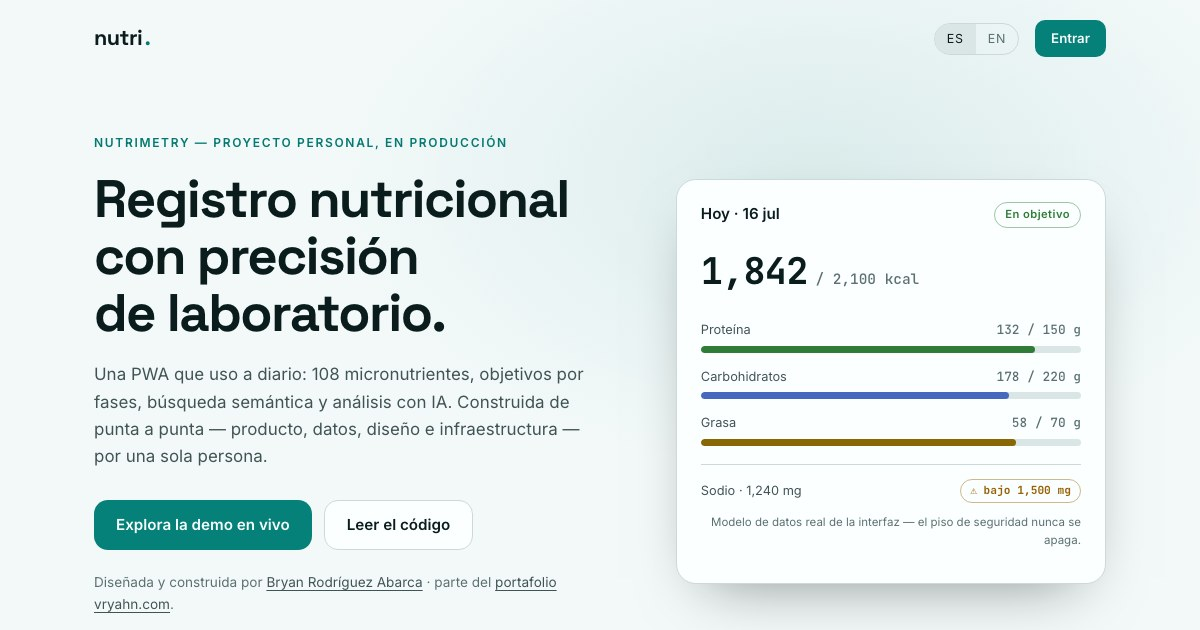
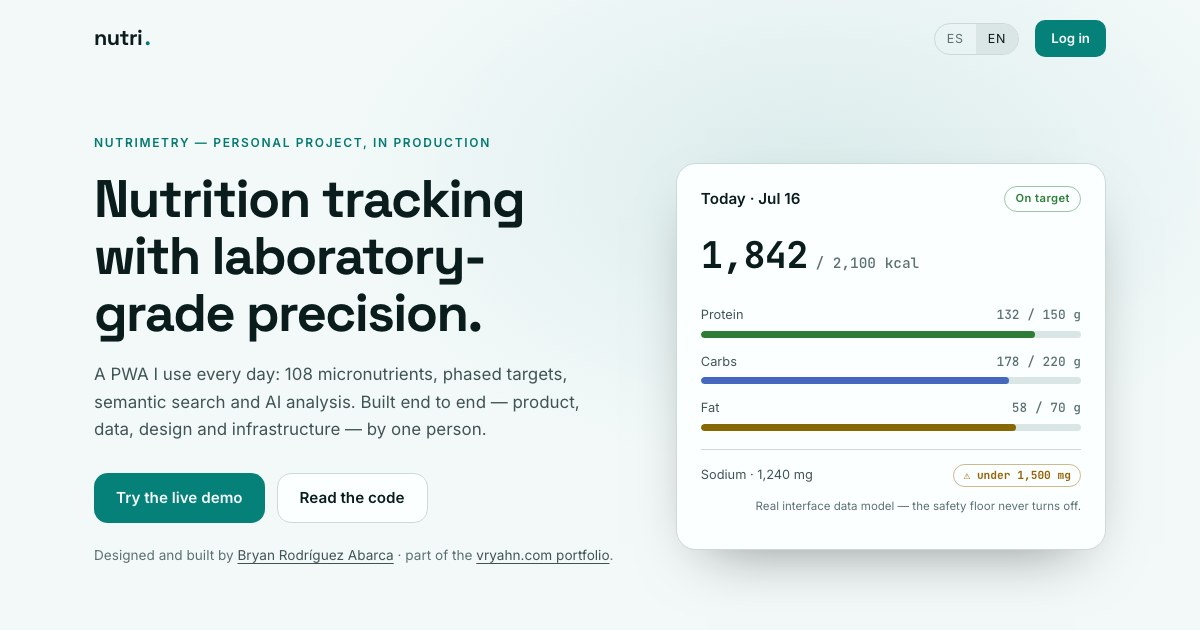
fix(og): preview en inglés
La captura del card salía en español (la página arranca en ES) y las
metas og:title/og:description iban en español. Copy en inglés tomado de
los data-en de la propia página.

diff --git a/public/about/index.html b/public/about/index.html
@@ -19,13 +19,13 @@
     <meta name="description" content="Nutrimetry: app personal de registro nutricional con 108 micronutrientes, búsqueda semántica y análisis con IA. Construida de punta a punta por Bryan Rodríguez Abarca." />
     <link rel="canonical" href="https://nutri.vryahn.com/about/" />
     <meta property="og:type" content="website" />
-    <meta property="og:title" content="nutri. — registro nutricional con precisión de laboratorio" />
-    <meta property="og:description" content="108 micronutrientes, objetivos por fases, búsqueda semántica y análisis con IA — construida de punta a punta por una sola persona." />
+    <meta property="og:title" content="nutri. — nutrition tracking with laboratory-grade precision" />
+    <meta property="og:description" content="108 micronutrients, phased targets, semantic search and AI analysis — built end to end by one person." />
     <meta property="og:url" content="https://nutri.vryahn.com/about/" />
     <meta property="og:image" content="https://nutri.vryahn.com/og.jpg" />
     <meta property="og:image:width" content="1200" />
     <meta property="og:image:height" content="630" />
-    <meta property="og:image:alt" content="nutri. — registro nutricional con precisión de laboratorio" />
+    <meta property="og:image:alt" content="nutri. — nutrition tracking with laboratory-grade precision" />
     <meta name="twitter:card" content="summary_large_image" />
     <meta name="twitter:image" content="https://nutri.vryahn.com/og.jpg" />
     <link rel="icon" href="/icon.svg" type="image/svg+xml" />
